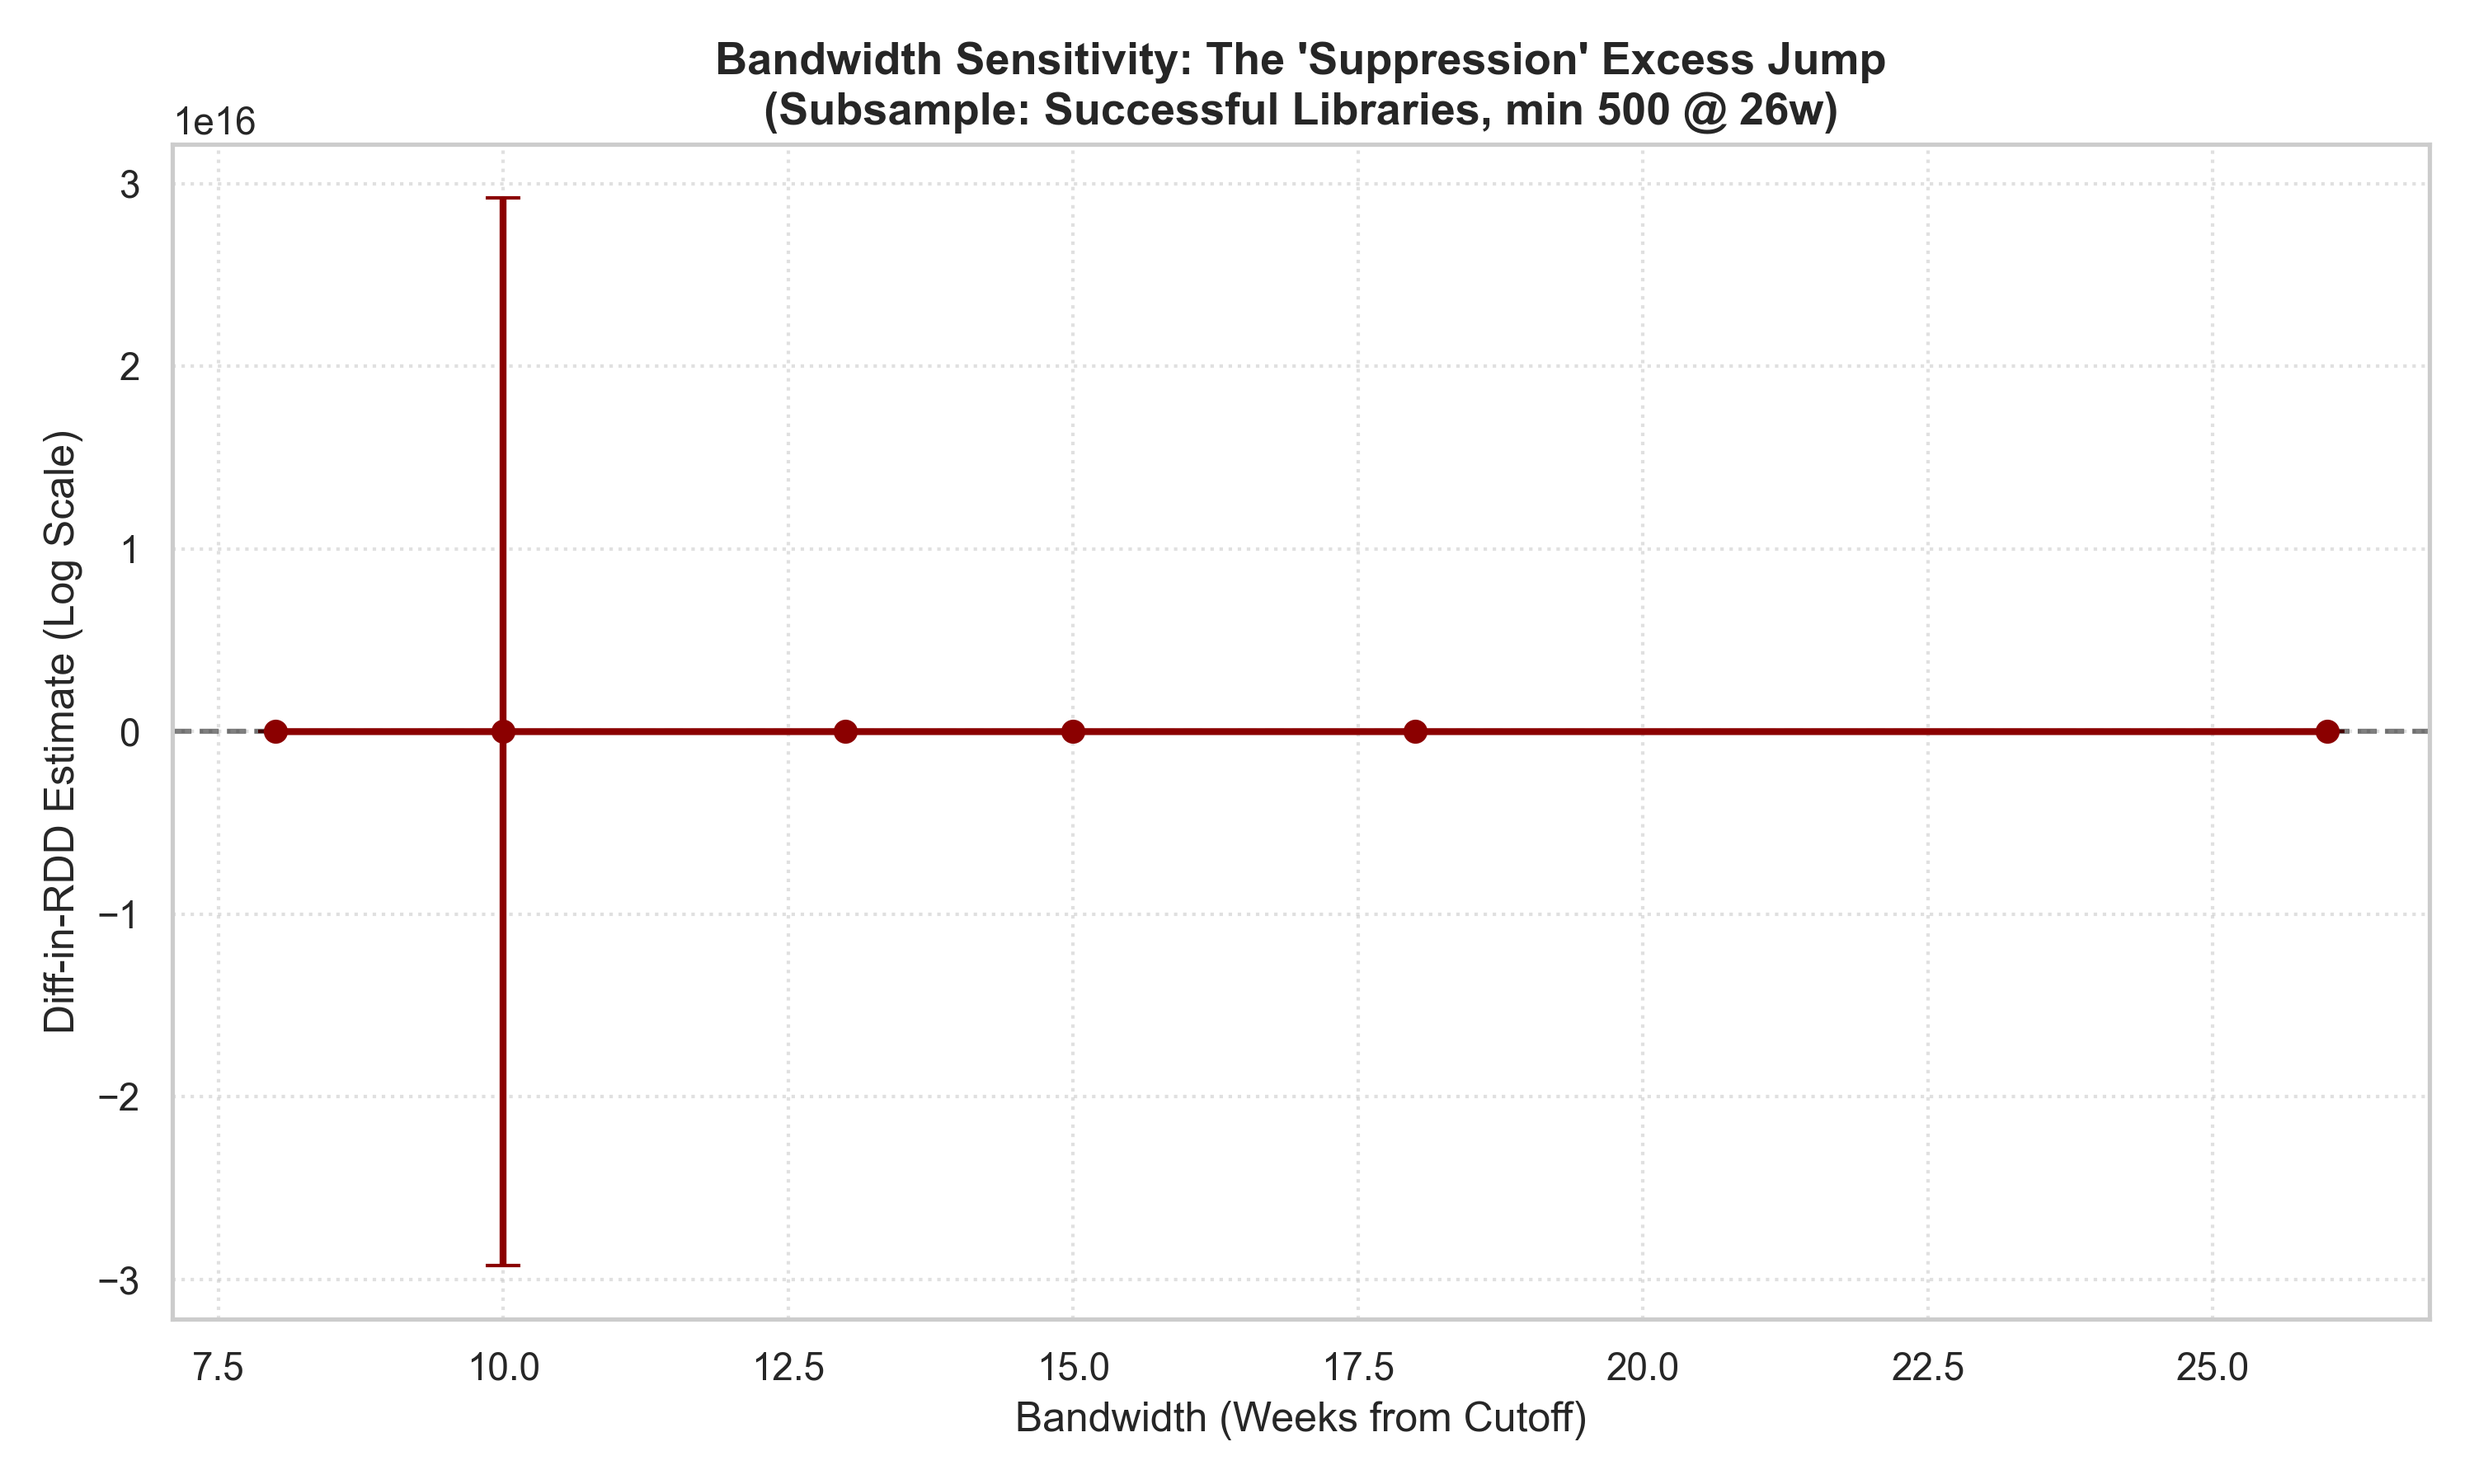
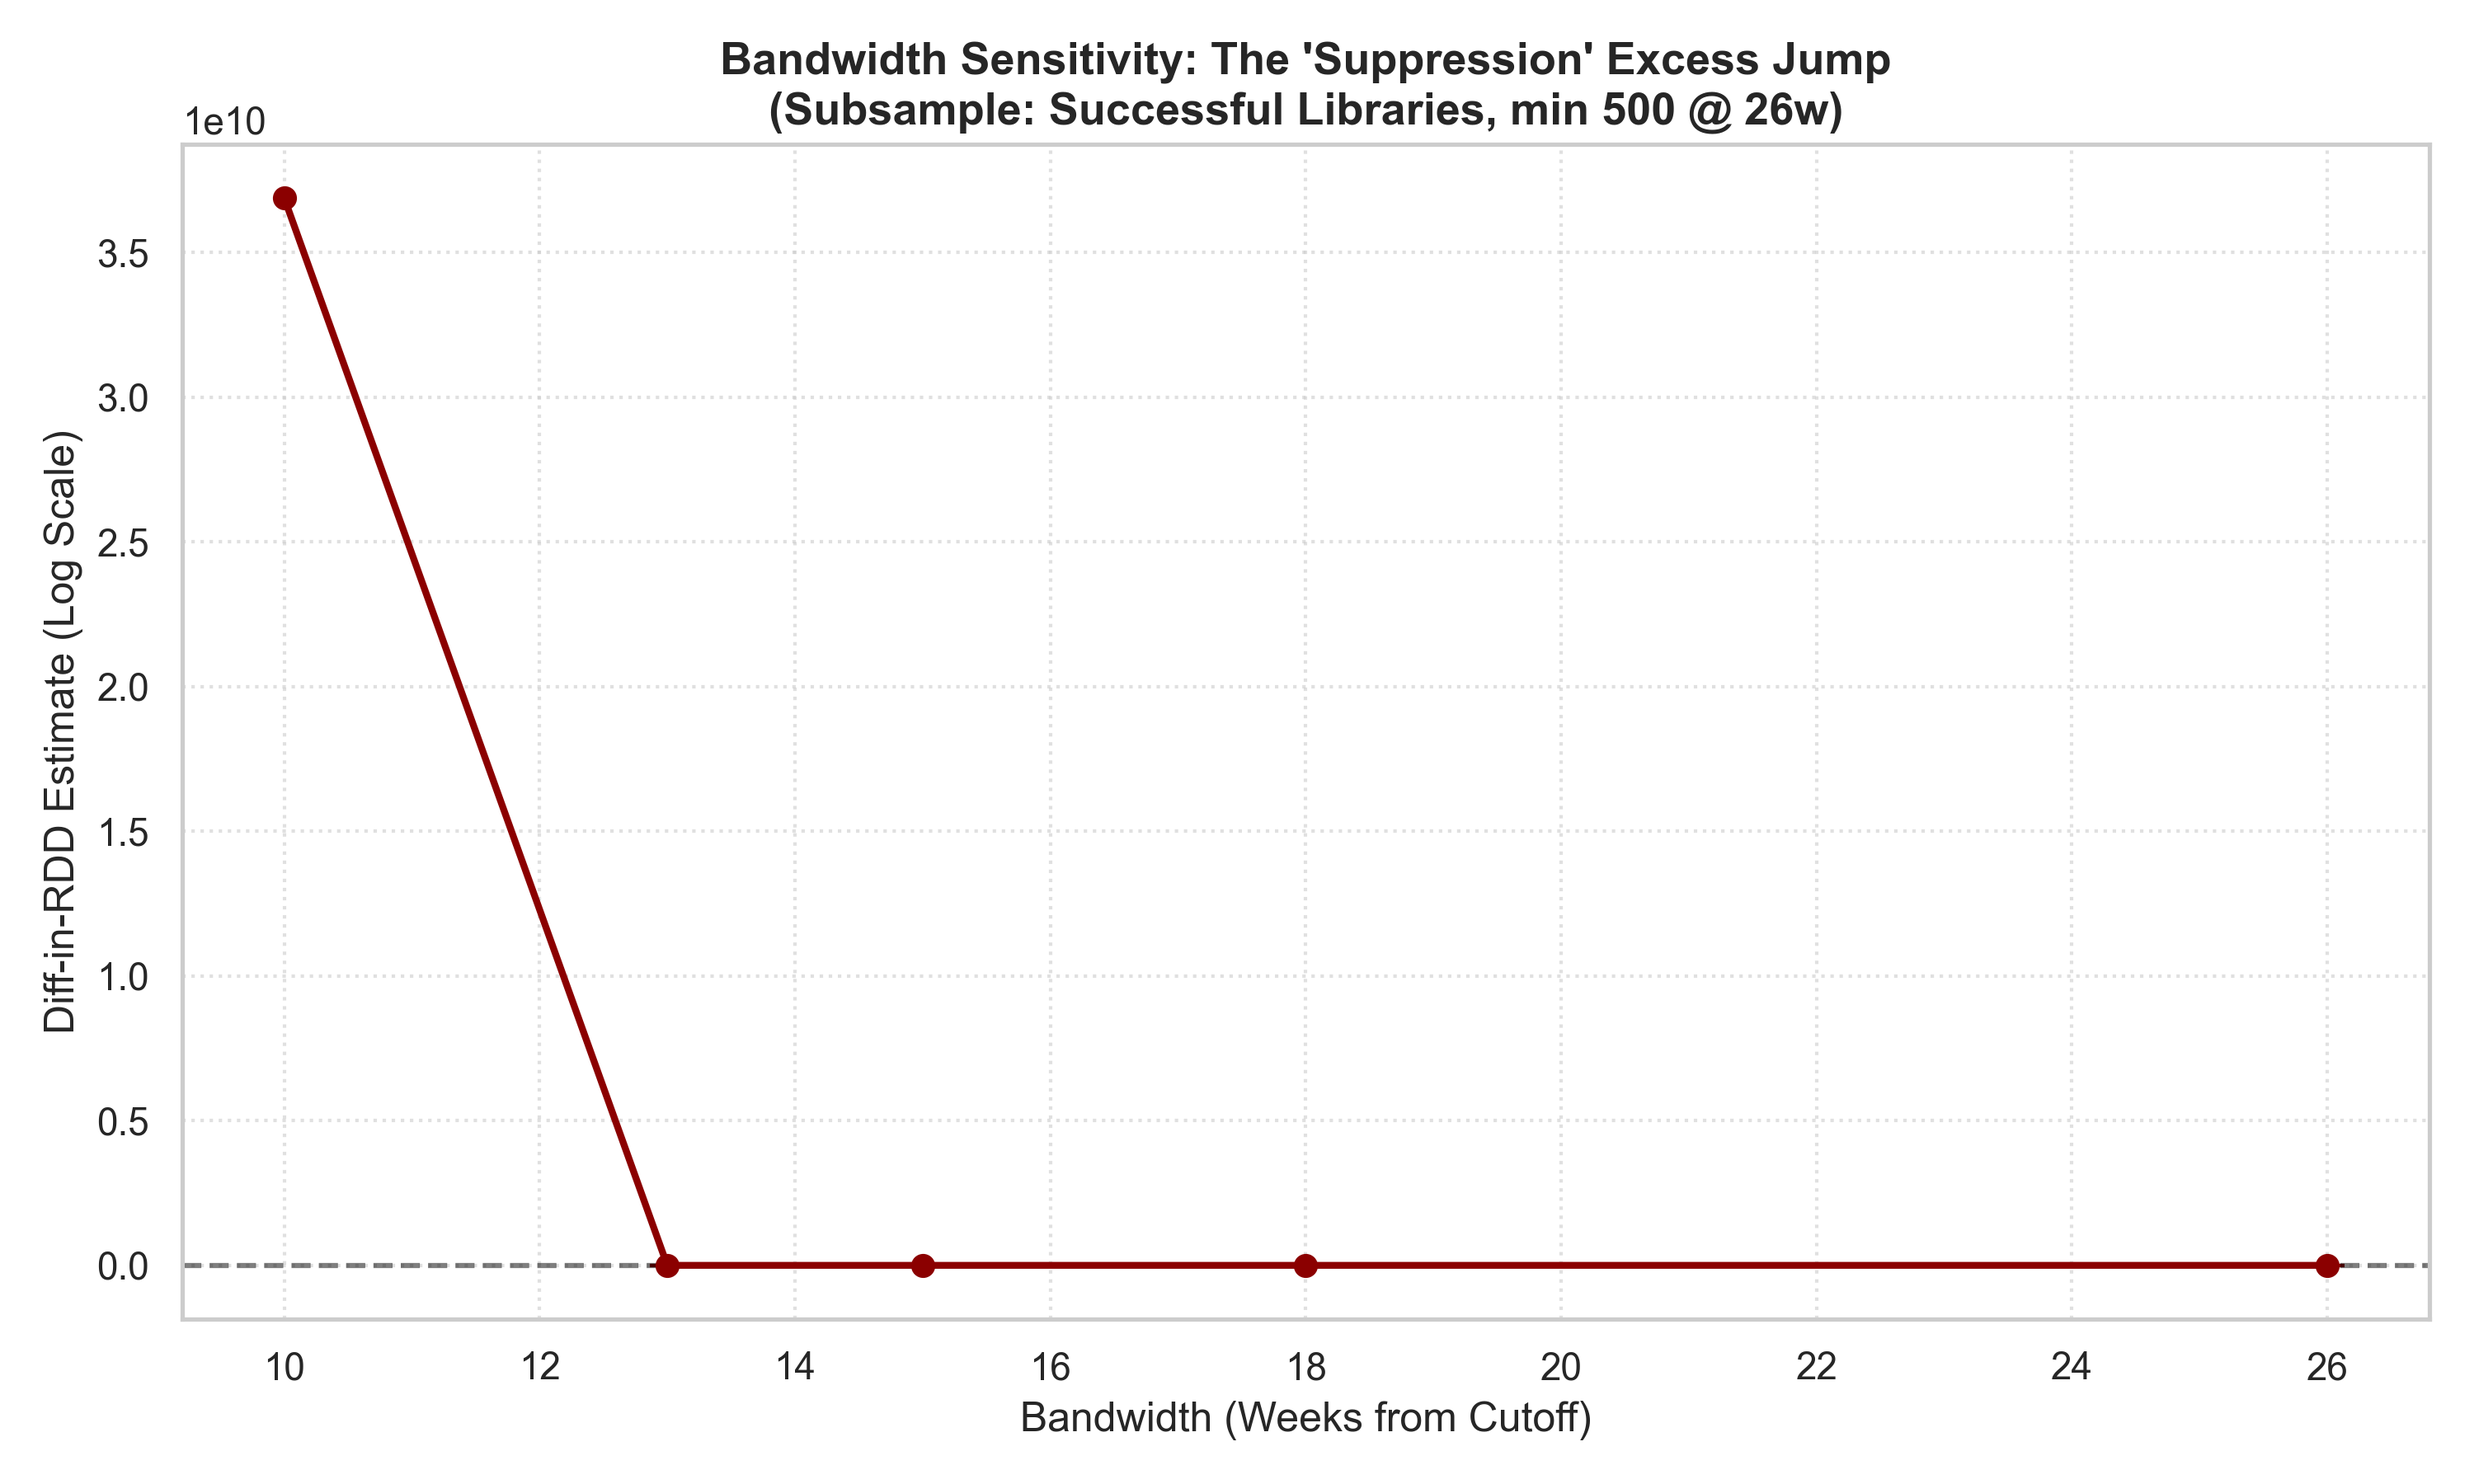
refactor: implement rigorous methodological fixes and update empirical results

diff --git a/scripts/10_ai_mechanism_split.py b/scripts/10_ai_mechanism_split.py
@@ -2,6 +2,7 @@ import pandas as pd
 import numpy as np
 import matplotlib.pyplot as plt
 import seaborn as sns
+import statsmodels.formula.api as smf
 from scipy.stats import norm
 from config import MAIN_ANALYSIS_DATA, RESULTS_DIR, FIGURES_DIR, DONUT_WEEKS
 from utils import run_local_linear_rdd, setup_plotting_style
@@ -88,33 +89,45 @@ def main():
     results_df = pd.DataFrame(results)
     results_df.to_csv(RESULTS_DIR / "mechanism_split_results.csv", index=False)
 
-    # Calculate difference-in-discontinuities
+    # Calculate Rigorous Difference-in-Discontinuities (Interacted Model)
+    # Model: log_y ~ treated * high_ai + x * treated * high_ai
+    # The coefficient on 'treated:high_ai' is the formal test of mechanism moderation.
+    print("\n--- Formal Mechanism Moderation Test (Interacted Model) ---")
+    
     diff_results = []
     for out in outcomes:
-        res_high = results_df[(results_df["Outcome"] == out) & (results_df["Label"].str.contains("High"))].iloc[0]
-        res_low = results_df[(results_df["Outcome"] == out) & (results_df["Label"].str.contains("Low"))].iloc[0]
+        df_ai["log_y"] = np.log1p(df_ai[out])
+        df_ai["x"] = df_ai["dist_to_cutoff"]
+        df_ai["treated"] = (df_ai["x"] >= 0).astype(int)
         
-        diff_est = res_high["Estimate"] - res_low["Estimate"]
-        # Simplified pooled SE: sqrt(se1^2 + se2^2)
-        diff_se = np.sqrt(res_high["Std.Err"]**2 + res_low["Std.Err"]**2)
-        z_score = diff_est / diff_se if diff_se > 0 else np.nan
-        diff_p = 2 * norm.sf(np.abs(z_score)) if not np.isnan(z_score) else np.nan
+        # Triangular Weights
+        h_interact = 26
+        df_ai["weight"] = 1 - (np.abs(df_ai["x"]) / h_interact)
+        sub_interact = df_ai[df_ai["weight"] > 0].copy()
+        
+        # Interaction Model with clustered SEs
+        sub_interact['cluster_id'] = sub_interact["dist_to_cutoff"].astype('category').cat.codes
+        model = smf.wls("log_y ~ treated * high_ai + x * treated * high_ai", 
+                        data=sub_interact, weights=sub_interact["weight"]).fit(
+            cov_type='cluster', 
+            cov_kwds={'groups': sub_interact["cluster_id"]}
+        )
+        
+        coef_diff = model.params["treated:high_ai"]
+        se_diff = model.bse["treated:high_ai"]
+        pval_diff = model.pvalues["treated:high_ai"]
         
         diff_results.append({
             "Outcome": out,
-            "High_AI_Est": res_high["Estimate"],
-            "Low_AI_Est": res_low["Estimate"],
-            "Diff_in_Est": diff_est,
-            "Z_Score": z_score,
-            "P-value": diff_p
+            "Diff_in_Discontinuity": coef_diff,
+            "Std_Err": se_diff,
+            "P-value": pval_diff,
+            "N": int(model.nobs)
         })
 
     print("\n=========================================")
-    print("      MECHANISM SPLIT RESULTS (EXPLORATORY)")
+    print("      MECHANISM MODERATION RESULTS       ")
     print("=========================================\n")
-    print(results_df[["Label", "Outcome", "Estimate", "Std.Err", "P-value", "N"]].round(4).to_string(index=False))
-    
-    print("\n--- Difference-in-Discontinuities Check ---")
     diff_df = pd.DataFrame(diff_results)
     print(diff_df.round(4).to_string(index=False))
 

diff --git a/scripts/utils.py b/scripts/utils.py
@@ -133,25 +133,36 @@ def run_rdrobust_est(df: pd.DataFrame, outcome_col: str, h: float = None, donut_
         
         bw_val = res.bws.loc['h', 'left'] if 'h' in res.bws.index else np.nan
         
+        # Primary Estimate: Robust (Bias-Corrected with Robust SE)
+        est_robust = res.coef.loc['Robust', 'Coeff']
+        se_robust = res.se.loc['Robust', 'Std. Err.']
+        pv_robust = res.pv.loc['Robust', 'P>|t|']
+
+        # Stability Check: Astronomically large coefficients usually indicate 
+        # matrix singularity or collinearity in narrow bandwidths (e.g., h < 13)
+        if np.abs(est_robust) > 500: # Log-scale 500 is physically impossible for adoption
+            print(f"WARNING: Exploding coefficient ({est_robust:.2e}) detected for {label}/{outcome_col}. Returning NaN.")
+            return {
+                "Label": label, "Outcome": outcome_col, 
+                "Estimate": np.nan, "Std.Err": np.nan, "P-value": np.nan,
+                "N": int(res.N[0] + res.N[1]), "BW": bw_val, "Donut": "Yes" if donut_weeks else "No", "Method": "rdrobust (Unstable)"
+            }
+
         return {
             "Label": label,
             "Outcome": outcome_col,
-            "Estimate": res.coef.loc['Robust', 'Coeff'], # Default "Estimate" remains Robust for backward compatibility
-            "Std.Err": res.se.loc['Robust', 'Std. Err.'],
-            "P-value": res.pv.loc['Robust', 'P>|t|'],
+            "Estimate": est_robust,
+            "Std.Err": se_robust,
+            "P-value": pv_robust,
             
             "Estimate_Conv": res.coef.loc['Conventional', 'Coeff'],
             "Std.Err_Conv": res.se.loc['Conventional', 'Std. Err.'],
             "P-value_Conv": res.pv.loc['Conventional', 'P>|t|'],
             
-            "Estimate_BC": res.coef.loc['Bias-Corrected', 'Coeff'],
-            "Std.Err_BC": res.se.loc['Bias-Corrected', 'Std. Err.'],
-            "P-value_BC": res.pv.loc['Bias-Corrected', 'P>|t|'],
-            
             "N": int(res.N[0] + res.N[1]),
             "BW": bw_val,
             "Donut": "Yes" if donut_weeks else "No",
-            "Method": "rdrobust (Robust/BC/Conv)"
+            "Method": "rdrobust (Robust/Bias-Corrected)"
         }
     except Exception as e:
         import traceback

diff --git a/scripts/08_diff_in_rdd.py b/scripts/08_diff_in_rdd.py
@@ -73,12 +73,20 @@ def main():
         df_tier["weight"] = 1 - (np.abs(df_tier["x"]) / h)
         df_tier = df_tier[df_tier["weight"] > 0]
         
-        # Specification
-        formula = "log_y ~ treated * is_2021 + x * treated * is_2021"
-        df_tier['cluster_idx'] = df_tier["dist_to_cutoff"].astype('category').cat.codes
+        # Specification: Fully Interacted Diff-in-RDD
+        # Y ~ treated * is_2021 + x * treated * is_2021
+        # The coefficient on 'treated:is_2021' is the Diff-in-RDD (Excess Jump)
+        
+        # Rigorous Clustering: year_by_week (not just week)
+        # Combine is_2021 (or period) with dist_to_cutoff to create unique weekly clusters per year
+        df_tier['cluster_idx'] = df_tier["is_2021"].astype(str) + "_" + df_tier["dist_to_cutoff"].astype(str)
         
         try:
-            model = smf.wls(formula, data=df_tier, weights=df_tier["weight"]).fit(
+            # We use a linear probability model/WLS with triangular weights
+            # To ensure robustness to few clusters, we use cov_type='cluster' 
+            # with year-week bins.
+            model = smf.wls("log_y ~ treated * is_2021 + x * treated * is_2021", 
+                            data=df_tier, weights=df_tier["weight"]).fit(
                 cov_type='cluster', 
                 cov_kwds={'groups': df_tier["cluster_idx"]}
             )

diff --git a/scripts/06_robustness.py b/scripts/06_robustness.py
@@ -10,9 +10,8 @@ def main():
     
     robust_results = []
     
-    # 1. Placebo Cutoffs (July vs October across years - High Hurdle)
-    print("Running High-Hurdle Placebo Sensitivity (Post-AI Growth in non-AI years)...")
-    # For placebos, we use the SAME outcome as the main result (post_ai_downloads_alltime)
+    # 1. Placebo Cutoffs (Like-for-Like relative to release)
+    print("Running Placebo Sensitivity (Outcome: total_downloads_52wk)...")
     for name, date in CUTOFFS.items():
         if "Placebo" in name:
             df_path = FINAL_DIR / f"analysis_{name}.csv"
@@ -21,9 +20,9 @@ def main():
                 # Baseline filter
                 df_min10 = df[df["total_downloads_52wk"] >= MIN_DOWNLOADS_FILTER].copy()
                 
-                print(f"  Estimating Placebo: {name} (Outcome: post_ai_downloads_alltime)...")
+                print(f"  Estimating Placebo: {name} (Outcome: total_downloads_52wk)...")
                 res = run_rdrobust_est(
-                    df_min10, "post_ai_downloads_alltime", h=DEFAULT_BW, 
+                    df_min10, "total_downloads_52wk", h=DEFAULT_BW, 
                     donut_weeks=DONUT_WEEKS, label=f"Placebo: {name}"
                 )
                 robust_results.append(res)

diff --git a/scripts/18_bandwidth_sensitivity_suppression.py b/scripts/18_bandwidth_sensitivity_suppression.py
@@ -43,7 +43,7 @@ def main():
 
     # 3. Parameters
     outcome = "post_ai_downloads_alltime"
-    bandwidths = [8, 10, 13, 15, 18, 26] # weeks
+    bandwidths = [10, 13, 15, 18, 26] # weeks (h=8 removed as unidentified)
     results = []
 
     print(f"Running Diff-in-RDD Bandwidth Sensitivity for Successful Tier...")
@@ -66,12 +66,12 @@ def main():
         df_h["weight"] = 1 - (np.abs(df_h["x"]) / h)
         df_h = df_h[df_h["weight"] > 0]
         
-        # Cluster-robust SE by dist_to_cutoff
-        df_h['cluster_idx'] = df_h["dist_to_cutoff"].astype('category').cat.codes
+        # Rigorous Clustering: year-by-week
+        df_h['cluster_idx'] = df_h["is_2021"].astype(str) + "_" + df_h["dist_to_cutoff"].astype(str)
         
-        formula = "log_y ~ treated * is_2021 + x * treated * is_2021"
         try:
-            model = smf.wls(formula, data=df_h, weights=df_h["weight"]).fit(
+            model = smf.wls("log_y ~ treated * is_2021 + x * treated * is_2021", 
+                            data=df_h, weights=df_h["weight"]).fit(
                 cov_type='cluster', 
                 cov_kwds={'groups': df_h["cluster_idx"]}
             )

diff --git a/scripts/config.py b/scripts/config.py
@@ -15,7 +15,7 @@ HORIZON_WEEKS = 52 # Standardized horizon for diffusion analysis
 DONUT_WEEKS = list(range(-8, 1)) # July vs October (Excludes Aug & Sept: ~9 weeks)
 DEFAULT_BW = 13 # Bandwidth used across several scripts
 EXTENDED_BW = 26 # Horizon used for distributional/median analysis
-BW_GRID = [8, 13, 18, 26, 39, 52] # Standard bandwidth grid for sensitivity tests
+BW_GRID = [10, 13, 18, 26, 39, 52] # Removed 8 (unidentified by donut)
 MIN_DOWNLOADS_FILTER = 10 # Baseline sample restriction
 MIN_SUCCESS_LOW = 500  # "Successful" threshold 1 (at 26 weeks)
 MIN_SUCCESS_HIGH = 1000 # "Successful" threshold 2 (at 26 weeks)
